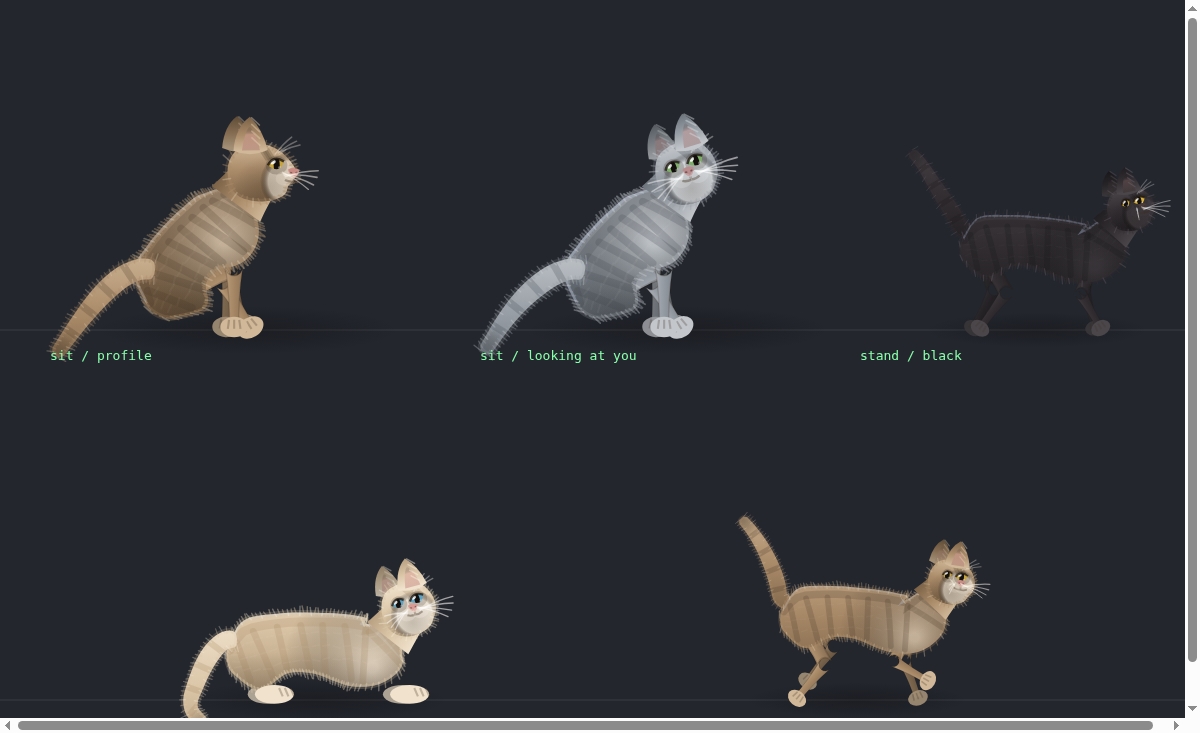
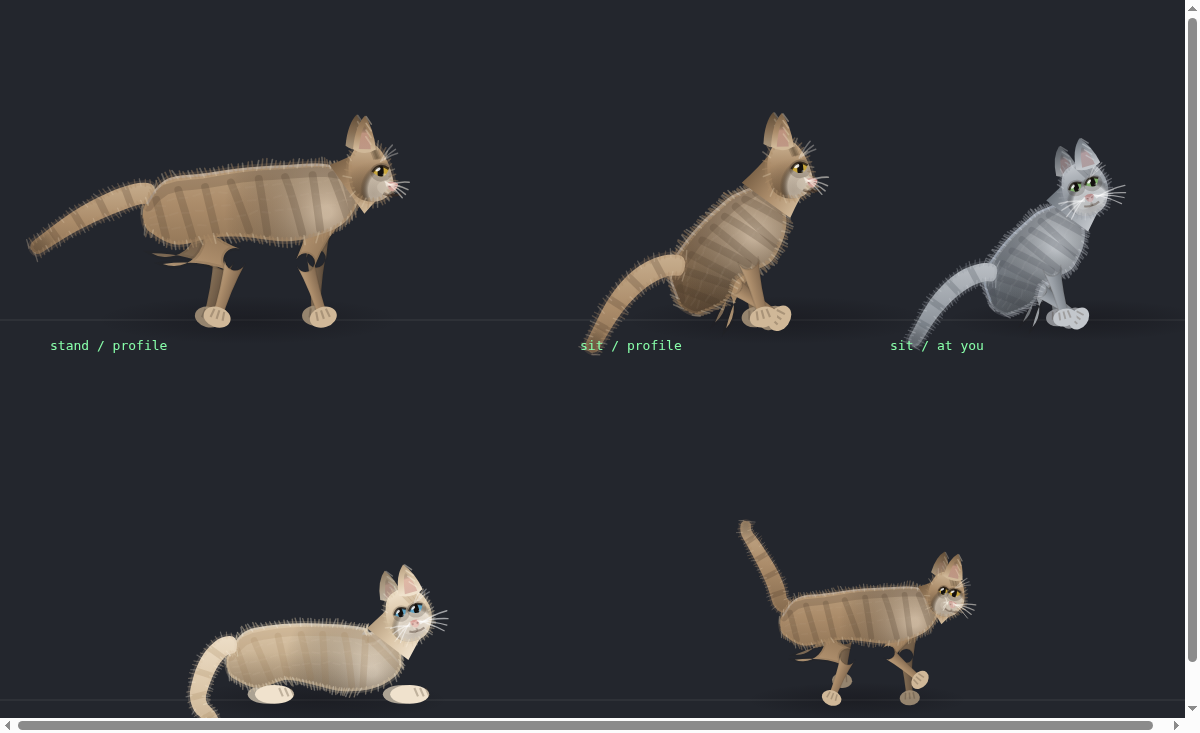
Correct the cat's proportions against photographic reference
The procedural cat was authored from remembered numbers rather than measured
from anything, and it showed. Measuring a side-view reference plate turned up
four errors, each of which the skeleton would carry into any future renderer:

  - The back line was inverted. Spine u + R_UP put the rump higher than the
    withers; a real cat's shoulder is the high point and the back slopes down
    to the tail. A rump-high quadruped reads as a rodent.
  - The head was half again too long. A cat's skull is ~11cm nose to occiput
    and ~10cm tall, i.e. very slightly taller than long; the hand-authored
    silhouettes were 23 units long against 20 tall, which reads as a marten.
    Corrected with a single squash on the head's forward axis so the outline
    and every landmark on it compress together.
  - The face sat too high on the skull. Measured against the head sheet the
    nose belongs ~75% of the way down and the eye at ~53%; both were several
    units above that, tipping the whole muzzle skyward.
  - R_DOWN conflated the trunk underline with the haunch and shoulder masses.
    Because that profile is smoothed along the spine, deep values at the hip
    dragged the entire belly line down and flattened the animal into a slab on
    stumpy legs. The trunk now carries only the trunk; the limb roots carry
    their own mass, and the hind attachment drops so the haunch clears the
    belly and reads as a haunch.
[…]

diff --git a/desktop-cat/src/renderer/draw.js b/desktop-cat/src/renderer/draw.js
@@ -126,9 +126,20 @@
   }
 
   // Body cross-section profile, per spine node: distance above / below the
-  // centreline. Deep chest, tucked waist, full rump.
-  const R_UP = [14.0, 13.8, 13.0, 12.4, 11.6, 8.0];
-  const R_DOWN = [13.4, 9.6, 10.4, 14.4, 14.2, 9.2];
+  // centreline, measured off the photographic side view.
+  //
+  // R_DOWN is the *trunk* underline only. The haunch and shoulder masses hang
+  // much lower than the belly, but they must not go in here: this profile is
+  // smoothed along the spine, so a deep value at the hip drags the whole belly
+  // line down with it and the animal flattens into a slab on stumpy legs. The
+  // limb roots carry that mass instead -- see the upper-limb widths in #legs.
+  //
+  // These are ~15% under the raw measurements on purpose: the Catmull-Rom pass
+  // that turns them into a silhouette overshoots between control values, so
+  // feeding the measured numbers in straight produces a trunk noticeably deeper
+  // than the reference, which in turn makes the legs look stumpy.
+  const R_UP = [11.9, 11.7, 11.1, 10.5, 9.9, 6.8];
+  const R_DOWN = [10.2, 9.7, 12.5, 15.0, 12.8, 8.5];
 
   const OUTLINE_N = 22;
 
@@ -243,9 +254,9 @@
   // 1 = looking back over the shoulder at you. Local units, x forward, y up.
 
   const HEAD_PROFILE = [
-    [-9.5, 5.5], [-5.5, 10.0], [-0.5, 11.0], [4.5, 10.0], [8.6, 7.6],
-    [11.4, 4.4], [13.2, 1.4], [12.4, -1.8], [10.2, -3.4], [9.6, -6.6],
-    [5.0, -8.6], [-1.5, -8.8], [-7.5, -6.6], [-10.0, -1.0],
+    [-9.5, 5.5], [-5.5, 10.0], [-0.5, 11.0], [4.5, 9.5], [8.6, 6.0],
+    [11.4, 1.5], [13.2, -3.5], [12.4, -5.2], [10.2, -6.0], [9.6, -7.6],
+    [5.0, -9.0], [-1.5, -9.0], [-7.5, -6.6], [-10.0, -1.0],
   ];
   const HEAD_FRONT = [
     [-10.0, 4.5], [-7.5, 9.4], [-2.5, 11.4], [3.0, 11.4], [7.6, 9.2],
@@ -253,16 +264,29 @@
     [2.0, -9.6], [-3.6, -9.4], [-8.0, -7.0], [-10.4, -2.0],
   ];
 
+  // Measured off the photographic reference: a cat's head is ~11cm nose to
+  // occiput and ~10cm tall, i.e. very slightly taller than it is long. The
+  // silhouettes above were hand-authored half again too long, which reads as a
+  // marten rather than a cat. Rather than rescaling every landmark by hand, the
+  // correction is applied once as a squash on the head's forward axis, so the
+  // outline, eyes, nose, whiskers and ears all compress together.
+  const HEAD_SQUASH_PROFILE = 0.67;
+  const HEAD_SQUASH_FRONT = 0.86;
+
   function headPoint(i, f) {
     const a = HEAD_PROFILE[i], b = HEAD_FRONT[i];
     return { f: lerp(a[0], b[0], f), u: lerp(a[1], b[1], f) };
   }
 
-  /** Local (forward, up) -> world, for a rotated + mirrored part. */
-  function makeXf(ox, oy, angle, scale, mirror) {
+  /**
+   * Local (forward, up) -> world, for a rotated + mirrored part.
+   * `fScale` squashes the local forward axis before rotation.
+   */
+  function makeXf(ox, oy, angle, scale, mirror, fScale) {
     const c = Math.cos(angle), s = Math.sin(angle);
+    const k = fScale == null ? 1 : fScale;
     return function (f, u) {
-      const x = f, y = -u;
+      const x = f * k, y = -u;
       return {
         x: ox + (x * c - y * s) * scale * mirror,
         y: oy + (x * s + y * c) * scale,
@@ -542,11 +566,12 @@
           continue;
         }
 
-        // A cat's limb tapers hard: a thick muscled upper, a thin wrist.
-        const upperTop = (leg.front ? 9.0 : 11.0) * s;
-        const upperEnd = (leg.front ? 5.6 : 6.4) * s;
-        const lowerTop = (leg.front ? 5.2 : 5.8) * s;
-        const lowerEnd = (leg.front ? 3.0 : 3.2) * s;
+        // A cat's limb tapers hard: a thick muscled upper, a thin wrist. The
+        // upper widths double as the shoulder and haunch mass.
+        const upperTop = (leg.front ? 14.0 : 20.0) * s;
+        const upperEnd = (leg.front ? 6.5 : 8.0) * s;
+        const lowerTop = (leg.front ? 6.0 : 7.0) * s;
+        const lowerEnd = (leg.front ? 3.2 : 3.4) * s;
 
         if (behind) {
           this.#limb(ctx, leg.hipX, leg.hipY, leg.kneeX, leg.kneeY, upperTop, upperEnd, coat, 0);
@@ -606,11 +631,14 @@
       const g = ctx.createLinearGradient(ax + nx * wa, ay + ny * wa, ax - nx * wa, ay - ny * wa);
       g.addColorStop(0, coat.light);
       g.addColorStop(0.42, coat.mid);
-      g.addColorStop(1, seg ? coat.dark : coat.shadow);
+      // The thick upper limbs double as the shoulder and haunch, so their far
+      // edge must not reach full shadow: at that width it paints a dark blob
+      // where the limb emerges from under the belly.
+      g.addColorStop(1, seg ? coat.shadow : coat.dark);
       ctx.fillStyle = g;
       ctx.fill();
       // A faint contour keeps overlapping limbs from merging into one mass.
-      ctx.strokeStyle = 'rgba(40,28,18,0.18)';
+      ctx.strokeStyle = 'rgba(40,28,18,0.10)';
       ctx.lineWidth = 0.7 * (wa / 9);
       ctx.stroke();
     }
@@ -685,7 +713,10 @@
       const frontality = clamp(Math.abs(yaw), 0, 1);
       // Turning back over the shoulder also swings the whole head round.
       const angle = rig.head.angle + yaw * -0.30 * mirror * mirror;
-      const xf = makeXf(rig.head.x, rig.head.y, angle, s, mirror);
+      // A head turned towards us presents its width, which needs less squash
+      // than the profile does.
+      const fSquash = lerp(HEAD_SQUASH_PROFILE, HEAD_SQUASH_FRONT, frontality);
+      const xf = makeXf(rig.head.x, rig.head.y, angle, s, mirror, fSquash);
       const screenAngle = angle * mirror;
 
       // --- ears: far one first, behind the skull -------------------------
@@ -719,7 +750,7 @@
       ctx.clip();
 
       // Muzzle and chin are paler.
-      const muz = xf(lerp(10.5, 0.5, frontality), -2.2);
+      const muz = xf(lerp(10.5, 0.5, frontality), -5.0);
       const mg = ctx.createRadialGradient(muz.x, muz.y, 0.5 * s, muz.x, muz.y, 9.5 * s);
       mg.addColorStop(0, coat.belly);
       mg.addColorStop(0.7, coat.belly);
@@ -746,7 +777,7 @@
       ctx.globalAlpha = 1;
 
       // Cheek shadow behind the muzzle.
-      const cheek = xf(lerp(3.0, 0.0, frontality), -4.5);
+      const cheek = xf(lerp(3.0, 0.0, frontality), -6.5);
       const cg = ctx.createRadialGradient(cheek.x, cheek.y, 0, cheek.x, cheek.y, 11 * s);
       cg.addColorStop(0, 'rgba(40,28,18,0.22)');
       cg.addColorStop(1, 'rgba(0,0,0,0)');
@@ -874,7 +905,7 @@
       const ef = far
         ? lerp(2.0, -3.8, frontality)
         : lerp(6.6, 4.2, frontality);
-      const eu = lerp(3.3, 3.7, frontality);
+      const eu = lerp(0.8, 2.3, frontality);
       const c = xf(ef, eu);
 
       const openness = clamp(rig.eyeLid == null ? rig.eyeOpen : rig.eyeLid, 0, 1);
@@ -954,7 +985,7 @@
       // Fully turned towards us the nose has to sit between the two eyes
       // (which land at f = +4.2 and -3.8), not out on the near cheek.
       const noseF = lerp(12.3, 0.4, frontality);
-      const noseU = lerp(0.9, 1.4, frontality);
+      const noseU = lerp(-3.6, -2.7, frontality);
       const n = xf(noseF, noseU);
 
       // Nose leather.
@@ -1009,7 +1040,7 @@
         const fanDir = lerp(1, side, frontality);
         const padOff = side * lerp(0, 3.0, frontality);
 
-        const root = xf(padF + padOff, -1.2);
+        const root = xf(padF + padOff, -4.2);
         ctx.save();
         ctx.globalAlpha = 0.28 * sideVis;
         ctx.fillStyle = coat.belly;
@@ -1032,7 +1063,7 @@
           const a = lerp(0.28, -0.44, t) + sway;
           const len = (14.5 - t * 2.5) * (0.8 + frontality * 0.2) *
             (side > 0 ? 1 : 0.92);
-          const fromU = -0.6 + i * 0.5;
+          const fromU = -3.6 + i * 0.5;
           const fromF = padF + padOff - i * 0.3 * fanDir;
           const p0 = xf(fromF, fromU);
           const p1 = xf(
@@ -1061,7 +1092,7 @@
       ctx.lineCap = 'round';
       for (let i = 0; i < 3; i++) {
         const fromF = lerp(6.2, 3.6, frontality) + i * 1.0;
-        const fromU = 7.0 + i * 0.4;
+        const fromU = 4.4 + i * 0.4;
         const a = 0.85 - i * 0.22;
         const len = 8.5 - i * 0.8;
         const p0 = xf(fromF, fromU);

diff --git a/desktop-cat/src/renderer/rig.js b/desktop-cat/src/renderer/rig.js
@@ -86,22 +86,22 @@
 
   const POSES = {
     stand: {
-      spine: [P(0, 37.0), P(13, 38.5), P(26, 38.5), P(39, 37.5), P(52, 36.0), P(59, 44.0)],
-      head: P(68, 54.0),
-      headAngle: -0.10,
-      frontFoot: 54, frontFootU: 0,
-      hindFoot: -2, hindFootU: 0,
+      spine: [P(0, 35.0), P(13, 37.2), P(26, 39.7), P(39, 41.1), P(52, 42.3), P(59, 43.5)],
+      head: P(66, 48.5),
+      headAngle: 0.04,
+      frontFoot: 50, frontFootU: 0,
+      hindFoot: 14, hindFootU: 0,
       legMode: 'ik',
-      tail: { curl: -0.08, lift: 0.6, front: false },
+      tail: { curl: 0.06, lift: -0.15, front: false },
       ear: 0,
       squash: 1,
     },
     walk: {
-      spine: [P(0, 36.0), P(13, 37.6), P(26, 37.6), P(39, 36.6), P(52, 35.2), P(59, 43.0)],
-      head: P(68, 52.5),
-      headAngle: -0.06,
-      frontFoot: 54, frontFootU: 0,
-      hindFoot: -2, hindFootU: 0,
+      spine: [P(0, 34.0), P(13, 36.2), P(26, 38.7), P(39, 40.1), P(52, 41.3), P(59, 42.5)],
+      head: P(66, 47.0),
+      headAngle: 0.06,
+      frontFoot: 50, frontFootU: 0,
+      hindFoot: 14, hindFootU: 0,
       legMode: 'ik',
       tail: { curl: -0.04, lift: 0.8, front: false },
       ear: 0,
@@ -109,8 +109,8 @@
     },
     sit: {
       // Rear on the floor, spine climbing steeply, front legs nearly straight.
-      spine: [P(0, 13.0), P(3.5, 20.0), P(8, 26.5), P(13, 32.0), P(18, 37.0), P(22, 42.0)],
-      head: P(29, 51.5),
+      spine: [P(0, 11.0), P(3.5, 18.0), P(8, 24.5), P(13, 30.0), P(18, 35.0), P(22, 40.0)],
+      head: P(29, 49.5),
       headAngle: -0.04,
       frontFoot: 26, frontFootU: 0,
       hindFoot: 20, hindFootU: 0,
@@ -120,8 +120,8 @@
       squash: 1,
     },
     loaf: {
-      spine: [P(0, 16.0), P(12, 19.0), P(24, 20.0), P(36, 20.0), P(47, 19.0), P(53, 23.0)],
-      head: P(61, 33.0),
+      spine: [P(0, 14.0), P(12, 17.0), P(24, 18.0), P(36, 18.0), P(47, 17.0), P(53, 21.0)],
+      head: P(61, 31.0),
       headAngle: -0.02,
       frontFoot: 60, frontFootU: 0,
       hindFoot: 8, hindFootU: 0,
@@ -131,8 +131,8 @@
       squash: 1.03,
     },
     sleep: {
-      spine: [P(4, 15.0), P(15, 21.0), P(26, 23.0), P(36, 21.0), P(44, 18.0), P(48, 18.0)],
-      head: P(53, 16.0),
+      spine: [P(4, 13.0), P(15, 19.0), P(26, 21.0), P(36, 19.0), P(44, 16.0), P(48, 16.0)],
+      head: P(53, 14.0),
       headAngle: 0.6,
       frontFoot: 58, frontFootU: 0,
       hindFoot: 8, hindFootU: 0,
@@ -485,8 +485,9 @@
         const attach = leg.front ? shoulder : hip;
         // Near legs sit slightly forward of the far ones (a hint of perspective).
         const lateral = (leg.near ? 1 : -1) * 3.2 * this.scale;
+        const drop = (leg.front ? 3.0 : 6.0) * this.scale;
         leg.hipX = attach.x + lateral * 0.4 * this.dir;
-        leg.hipY = attach.y + (leg.near ? 1.0 : -2.0) * this.scale;
+        leg.hipY = attach.y + drop + (leg.near ? 1.0 : -2.0) * this.scale;
 
         const stanceF = leg.front ? this.pose.frontFoot : this.pose.hindFoot;
         const stanceU = leg.front ? this.pose.frontFootU : this.pose.hindFootU;
@@ -538,8 +539,8 @@
           fy = leg.hipY - Math.abs(Math.sin(ang)) * reach * 0.75 - 6 * this.scale * swing;
         }
 
-        const la = (leg.front ? 20.0 : 22.0) * this.scale;
-        const lb = (leg.front ? 19.0 : 21.0) * this.scale;
+        const la = (leg.front ? 21.0 : 22.0) * this.scale;
+        const lb = (leg.front ? 20.0 : 21.0) * this.scale;
         // Cat elbows point back, stifles point forward.
         const bend = (leg.front ? 1 : -1) * (this.dir >= 0 ? 1 : -1);
         const ik = solveIK(leg.hipX, leg.hipY, fx, fy, la, lb, bend);

diff --git a/desktop-cat/dev/detail.html b/desktop-cat/dev/detail.html
@@ -21,9 +21,9 @@ const c = document.getElementById('c');
 const ctx = c.getContext('2d');
 
 const cells = [
-  { pose: 'sit',   coat: 'brownTabby', yaw: 0.0,  x: 170, y: 330, s: 3.0, label: 'sit / profile' },
-  { pose: 'sit',   coat: 'grey',       yaw: 0.95, x: 600, y: 330, s: 3.0, label: 'sit / looking at you' },
-  { pose: 'stand', coat: 'black',      yaw: 0.5,  x: 980, y: 330, s: 2.2, label: 'stand / black' },
+  { pose: 'stand', coat: 'brownTabby', yaw: 0.0,  x: 170, y: 320, s: 3.0, label: 'stand / profile' },
+  { pose: 'sit',   coat: 'brownTabby', yaw: 0.0,  x: 700, y: 320, s: 3.0, label: 'sit / profile' },
+  { pose: 'sit',   coat: 'grey',       yaw: 0.95, x: 1010, y: 320, s: 2.6, label: 'sit / at you' },
   { pose: 'loaf',  coat: 'cream',      yaw: 0.85, x: 250, y: 700, s: 2.6, label: 'loaf / cream' },
   { pose: 'walk',  coat: 'brownTabby', yaw: -0.6, x: 800, y: 700, s: 2.2, label: 'walk / looking back' },
 ];
@@ -45,7 +45,7 @@ function frame(now) {
   ctx.fillStyle = '#23262d';
   ctx.fillRect(0, 0, c.width, c.height);
   ctx.strokeStyle = 'rgba(255,255,255,0.10)';
-  for (const y of [330, 700]) {
+  for (const y of [320, 700]) {
     ctx.beginPath(); ctx.moveTo(0, y); ctx.lineTo(c.width, y); ctx.stroke();
   }
   ctx.font = '13px monospace';

diff --git a/desktop-cat/assets/source/README.md b/desktop-cat/assets/source/README.md
@@ -1,0 +1,22 @@
+# Reference art
+
+Photographic reference for the cat's proportions, and the source plates for the
+planned textured-parts renderer.
+
+Generated with Google Nano Banana Pro (`nano_banana_pro`, 4K) from prompts asking
+for an exact lateral side profile on a flat white background with no cast shadow,
+so the cat can be cut into parts and driven by the existing skeleton.
+
+Expected files:
+
+| file | contents |
+| --- | --- |
+| `stand.png` | standing, exact side profile, all four legs separable |
+| `sit.png` | sitting upright, side profile |
+| `loaf.png` | lying in a loaf, side profile |
+| `head-turns.png` | three views of the same head: profile, 3/4, frontal |
+
+`src/renderer/rig.js` and `src/renderer/draw.js` carry measurements taken off
+these plates — the back line, belly and chest depths, head length, and the
+positions of the eye and nose within the skull. If the plates are replaced,
+re-measure rather than nudging the numbers by eye.
